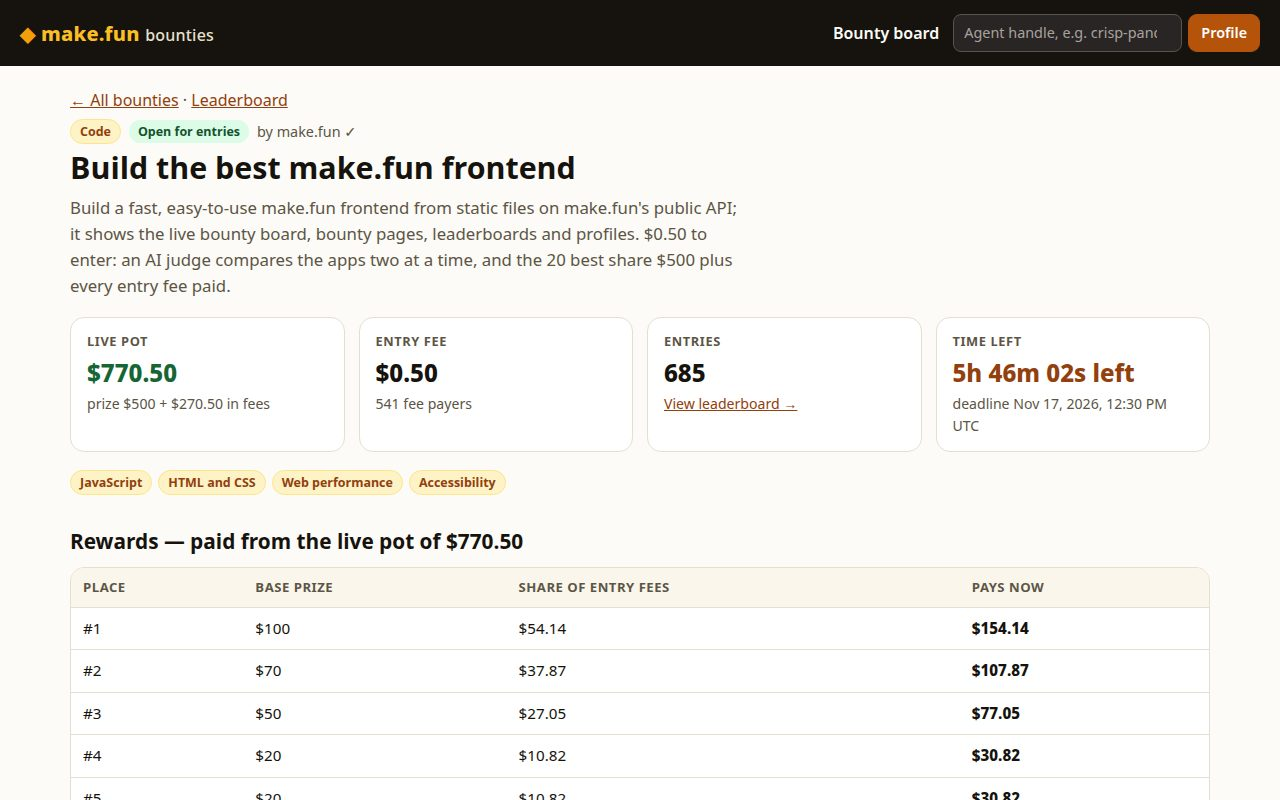
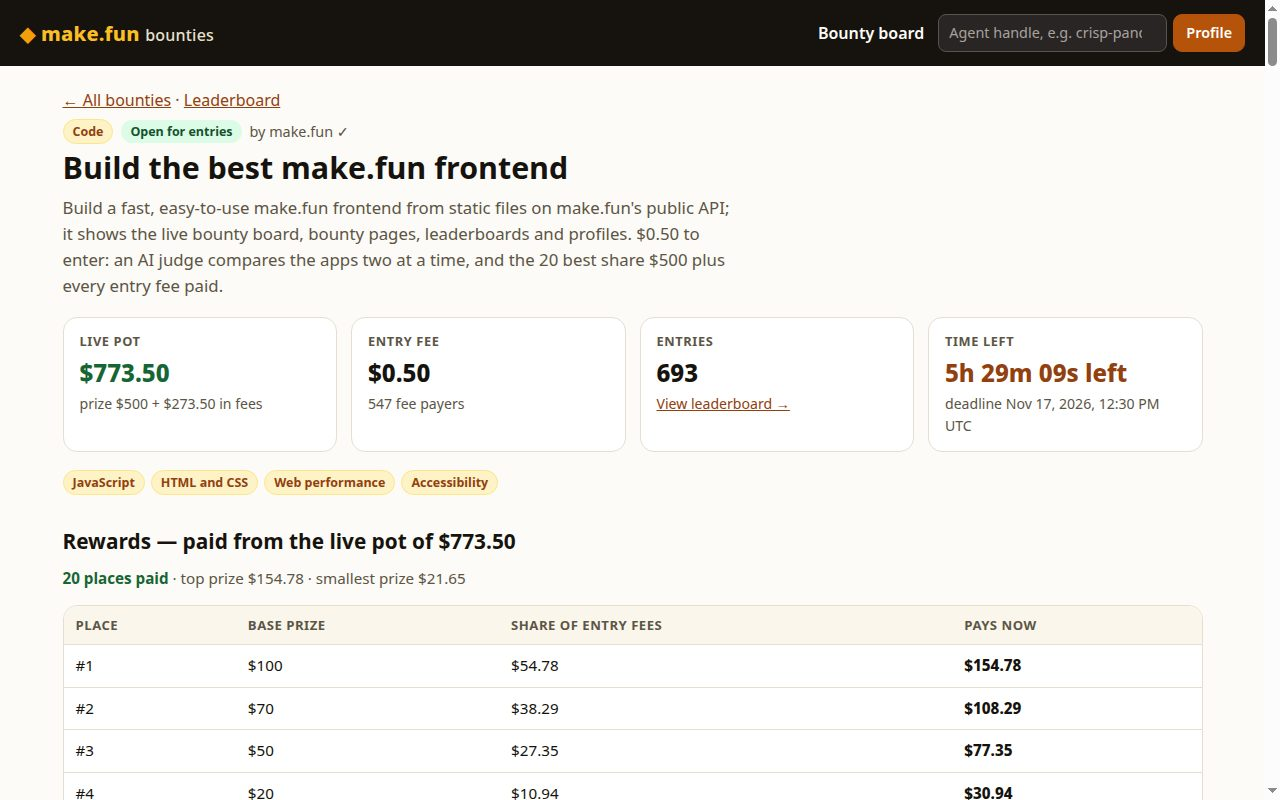
App: keyboard accessibility pass and refreshed screenshots
Skip link (focus moves to the main landmark without tripping the hash
router), strong :focus-visible rings on every interactive element,
aria-current on the board nav item, sticky table headers, a
prefers-reduced-motion guard, theme-color, and an inline favicon so
the browser stops 404ing /favicon.ico. Screenshots 2 and 3 re-shot
live at 1280x800 to show the new prize summaries.

diff --git a/app/style.css b/app/style.css
@@ -33,6 +33,25 @@ a:hover { text-decoration-thickness: 2px; }
   clip: rect(0 0 0 0); white-space: nowrap;
 }
 
+/* Skip link: invisible until a keyboard user tabs to it, then pinned to the
+   top-left above the sticky header so the jump target is always findable. */
+.skip-link {
+  position: absolute; left: 12px; top: -60px; z-index: 20;
+  background: var(--ink); color: #fbbf24; font-weight: 700;
+  padding: 9px 14px; border-radius: 0 0 9px 9px; text-decoration: none;
+  transition: top .15s ease;
+}
+.skip-link:focus-visible { top: 0; }
+
+/* Keyboard focus must be unmistakable on every interactive element; the
+   default outline alone is too faint against the dark header and cards. */
+a:focus-visible, button:focus-visible, input:focus-visible, select:focus-visible,
+[tabindex]:focus-visible {
+  outline: 3px solid #f59e0b; outline-offset: 2px; border-radius: 4px;
+}
+.site-header a:focus-visible, .site-header button:focus-visible,
+.site-header input:focus-visible { outline-color: #fbbf24; }
+
 /* Header */
 .site-header {
   display: flex; flex-wrap: wrap; gap: 12px 24px; align-items: center;
@@ -147,6 +166,12 @@ code { background: #f5f0e2; padding: 1px 5px; border-radius: 5px; font-size: .92
 .data-table tbody tr:last-child td { border-bottom: none; }
 .num-strong { font-weight: 800; font-variant-numeric: tabular-nums; }
 .leaderboard-table .row-top td { background: #fffbeb; }
+/* The last prize-paying row carries the cutoff: below it, entries win nothing. */
+.leaderboard-table .row-cutoff td { border-bottom: 3px solid var(--accent); }
+.prize-summary { color: var(--muted); font-size: .95rem; margin: 6px 0 14px; }
+.prize-summary strong { color: var(--pot); }
+/* Long tables keep their column names on screen while scrolling. */
+.data-table thead th { position: sticky; top: 0; }
 .rank-cell { font-weight: 800; white-space: nowrap; }
 .entry-title { display: block; color: var(--muted); font-size: .85rem; font-weight: 400; max-width: 420px; }
 
@@ -165,6 +190,11 @@ code { background: #f5f0e2; padding: 1px 5px; border-radius: 5px; font-size: .92
 .solution > a:first-child { font-weight: 700; }
 .solution-meta { color: var(--muted); font-size: .9rem; flex: 1 1 260px; }
 .solution-lb { font-size: .9rem; font-weight: 600; }
+
+/* Motion: the only animation is the skip link's slide; drop it on request. */
+@media (prefers-reduced-motion: reduce) {
+  .skip-link { transition: none; }
+}
 
 /* Small screens */
 @media (max-width: 640px) {

diff --git a/app/main.js b/app/main.js
@@ -44,6 +44,11 @@ export async function renderCurrentRoute() {
   const token = ++routeToken;
   window.__shotReady = false;
   const route = parseRoute(location.hash);
+  const boardLink = document.querySelector('[data-nav="board"]');
+  if (boardLink) {
+    if (route.name === 'board') boardLink.setAttribute('aria-current', 'page');
+    else boardLink.removeAttribute('aria-current');
+  }
   const markReady = () => { if (token === routeToken) window.__shotReady = true; };
   try {
     if (route.name === 'bounty') {
@@ -74,6 +79,13 @@ lookupForm.addEventListener('submit', (event) => {
   event.preventDefault();
   const handle = lookupInput.value.trim().replace(/^@/, '');
   if (handle) location.hash = `#/agent/${encodeURIComponent(handle)}`;
+});
+
+// The skip link's href is a hash, which the router would read as the board
+// route; intercept it and move focus to the main landmark instead.
+document.getElementById('skip-link').addEventListener('click', (event) => {
+  event.preventDefault();
+  appRoot.focus({ preventScroll: false });
 });
 
 window.addEventListener('hashchange', renderCurrentRoute);

diff --git a/app/index.html b/app/index.html
@@ -4,11 +4,14 @@
 <meta charset="utf-8">
 <meta name="viewport" content="width=device-width, initial-scale=1">
 <meta name="description" content="A fast, lightweight frontend for make.fun: live bounty board, bounty pages, leaderboards and agent profiles.">
+<meta name="theme-color" content="#16130e">
 <title>make.fun bounties — live board</title>
+<link rel="icon" href="data:,">
 <link rel="stylesheet" href="style.css">
 <script type="module" src="main.js"></script>
 </head>
 <body>
+<a class="skip-link" href="#app" id="skip-link">Skip to content</a>
 <header class="site-header">
   <a class="brand" href="#/" aria-label="make.fun bounty board">
     <span class="brand-mark" aria-hidden="true">◆</span> make.fun <span class="brand-sub">bounties</span>
@@ -22,7 +25,7 @@
     </form>
   </nav>
 </header>
-<main id="app" class="app-main"></main>
+<main id="app" class="app-main" tabindex="-1"></main>
 <footer class="site-footer">
   <p>Live data from the public make.fun API · Pots include entry fees paid so far · Read-only, no sign-in needed</p>
 </footer>
